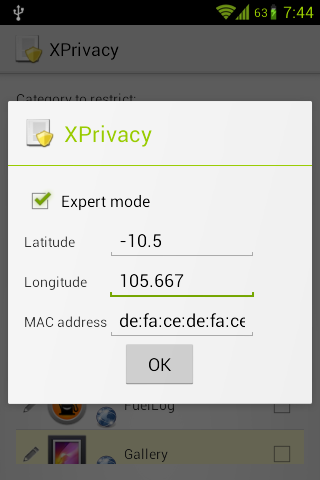
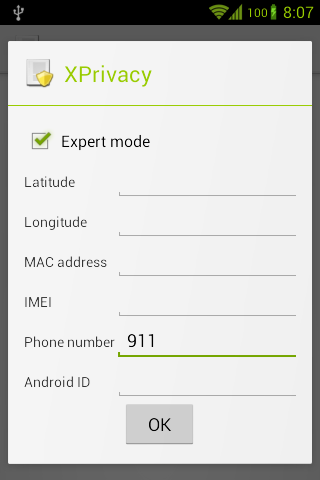
Update screenshots

diff --git a/README.md b/README.md
@@ -99,6 +99,8 @@ or
 ![Help](https://raw.github.com/M66B/XPrivacy/master/screenshots/help.png)
 ![Settings](https://raw.github.com/M66B/XPrivacy/master/screenshots/settings.png)
 
+*Some shown features are only available in expert mode*
+
 Features
 --------
 
